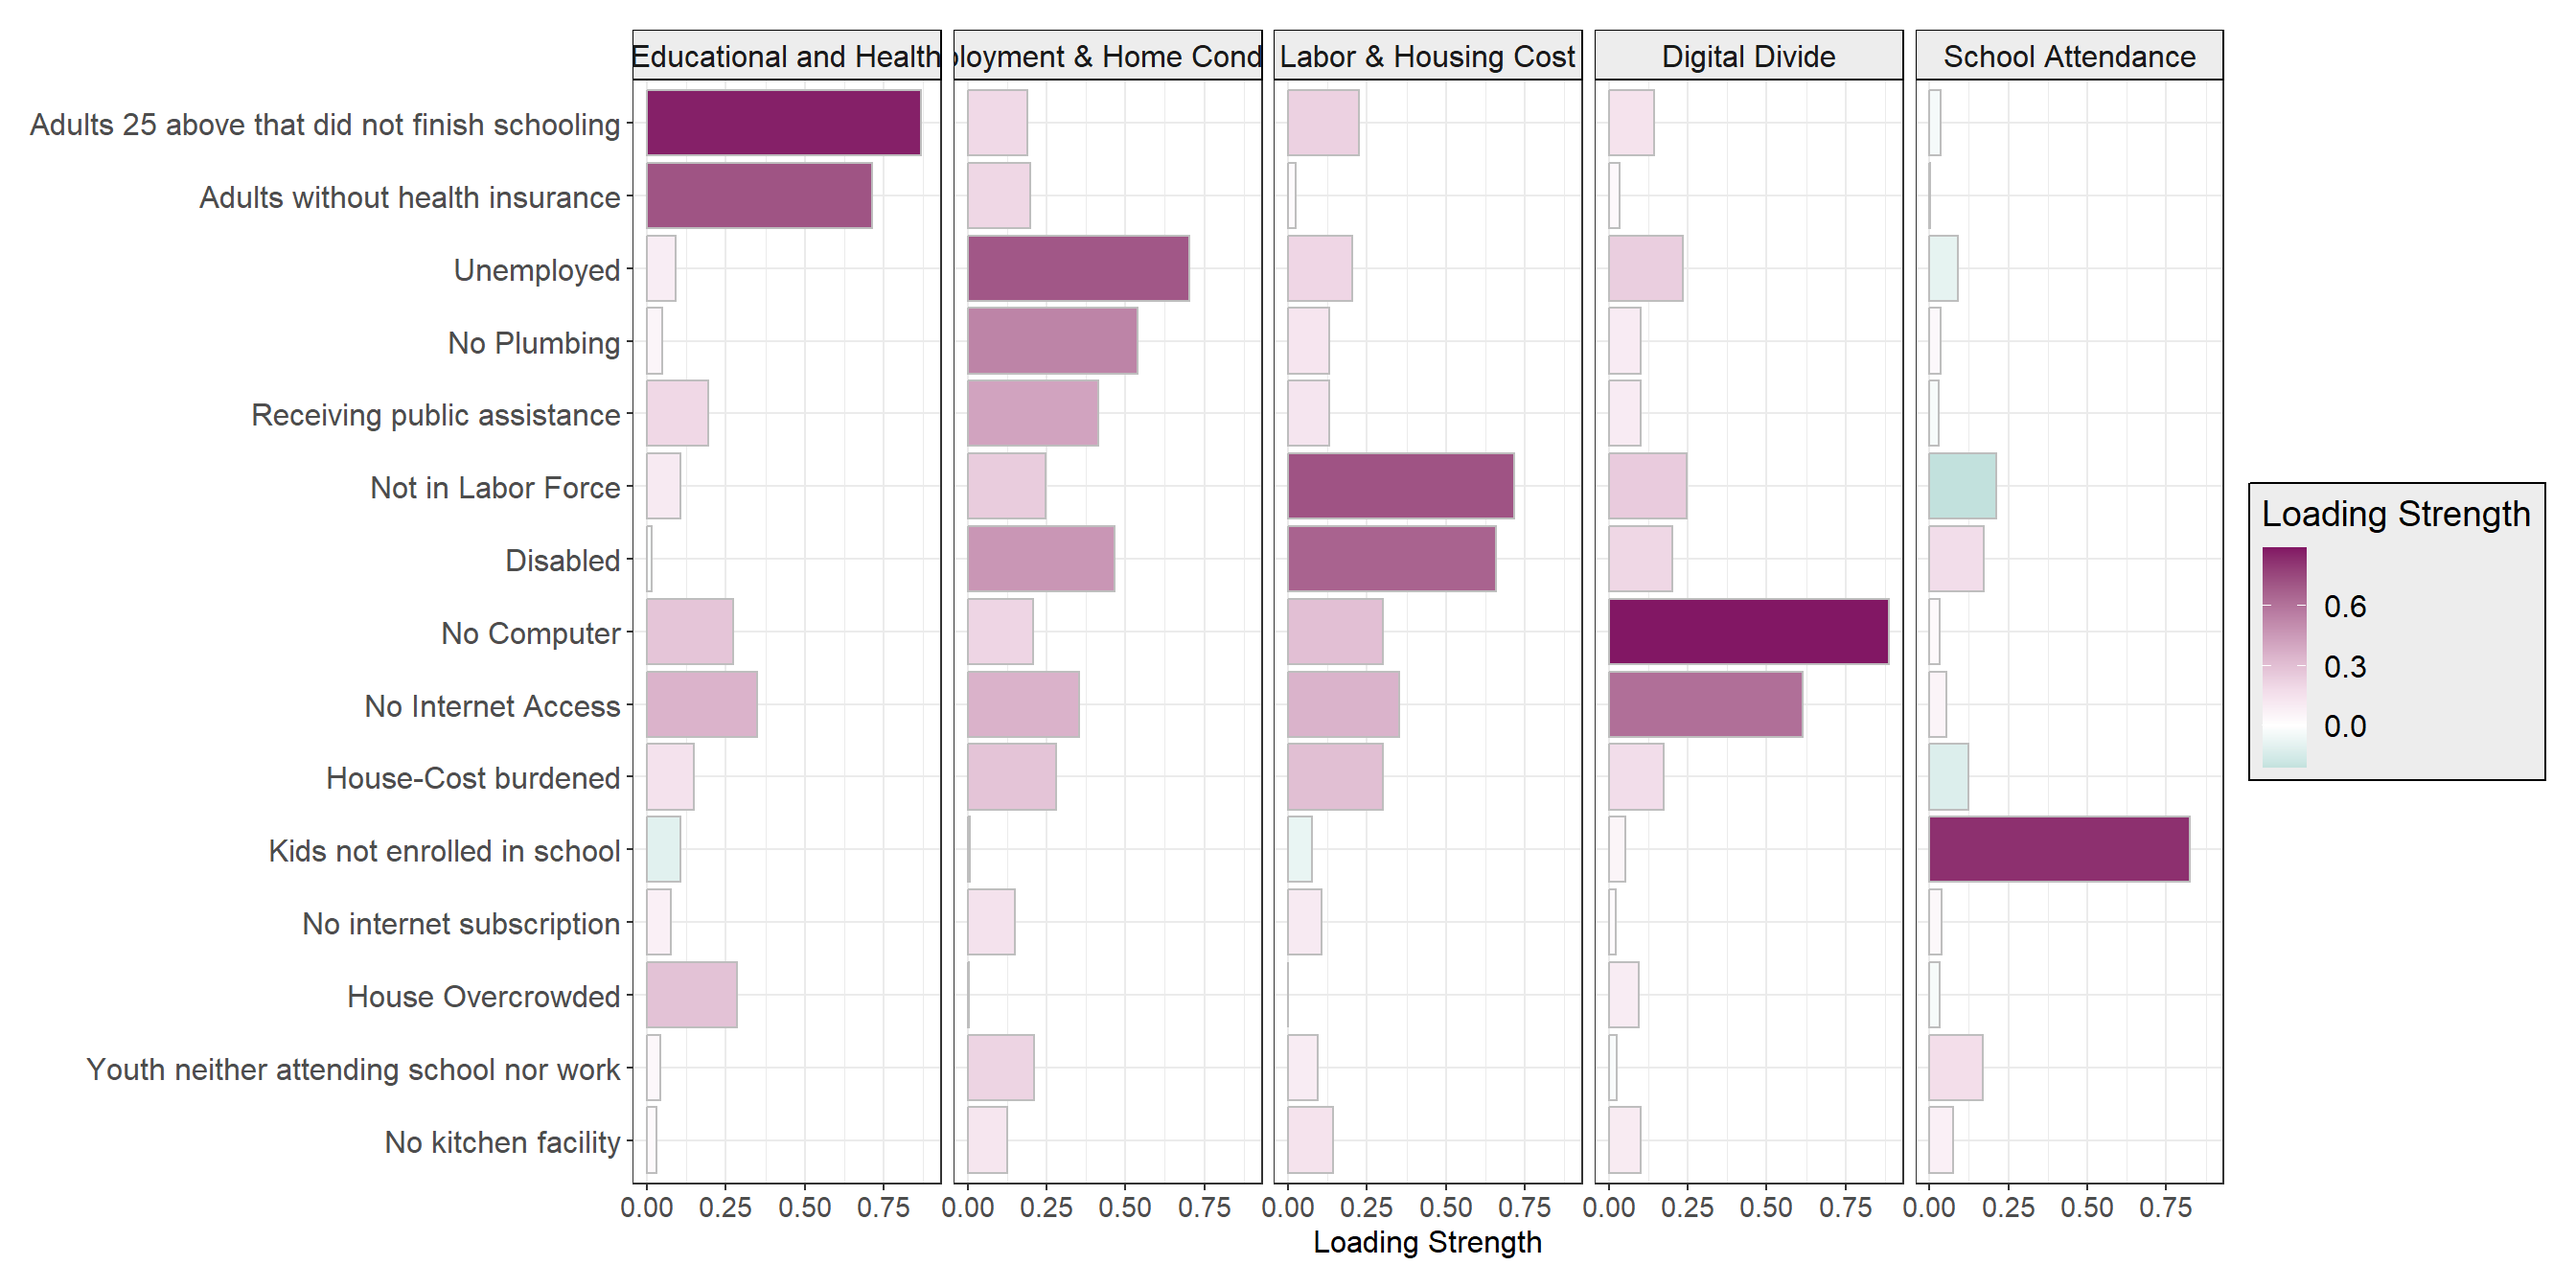
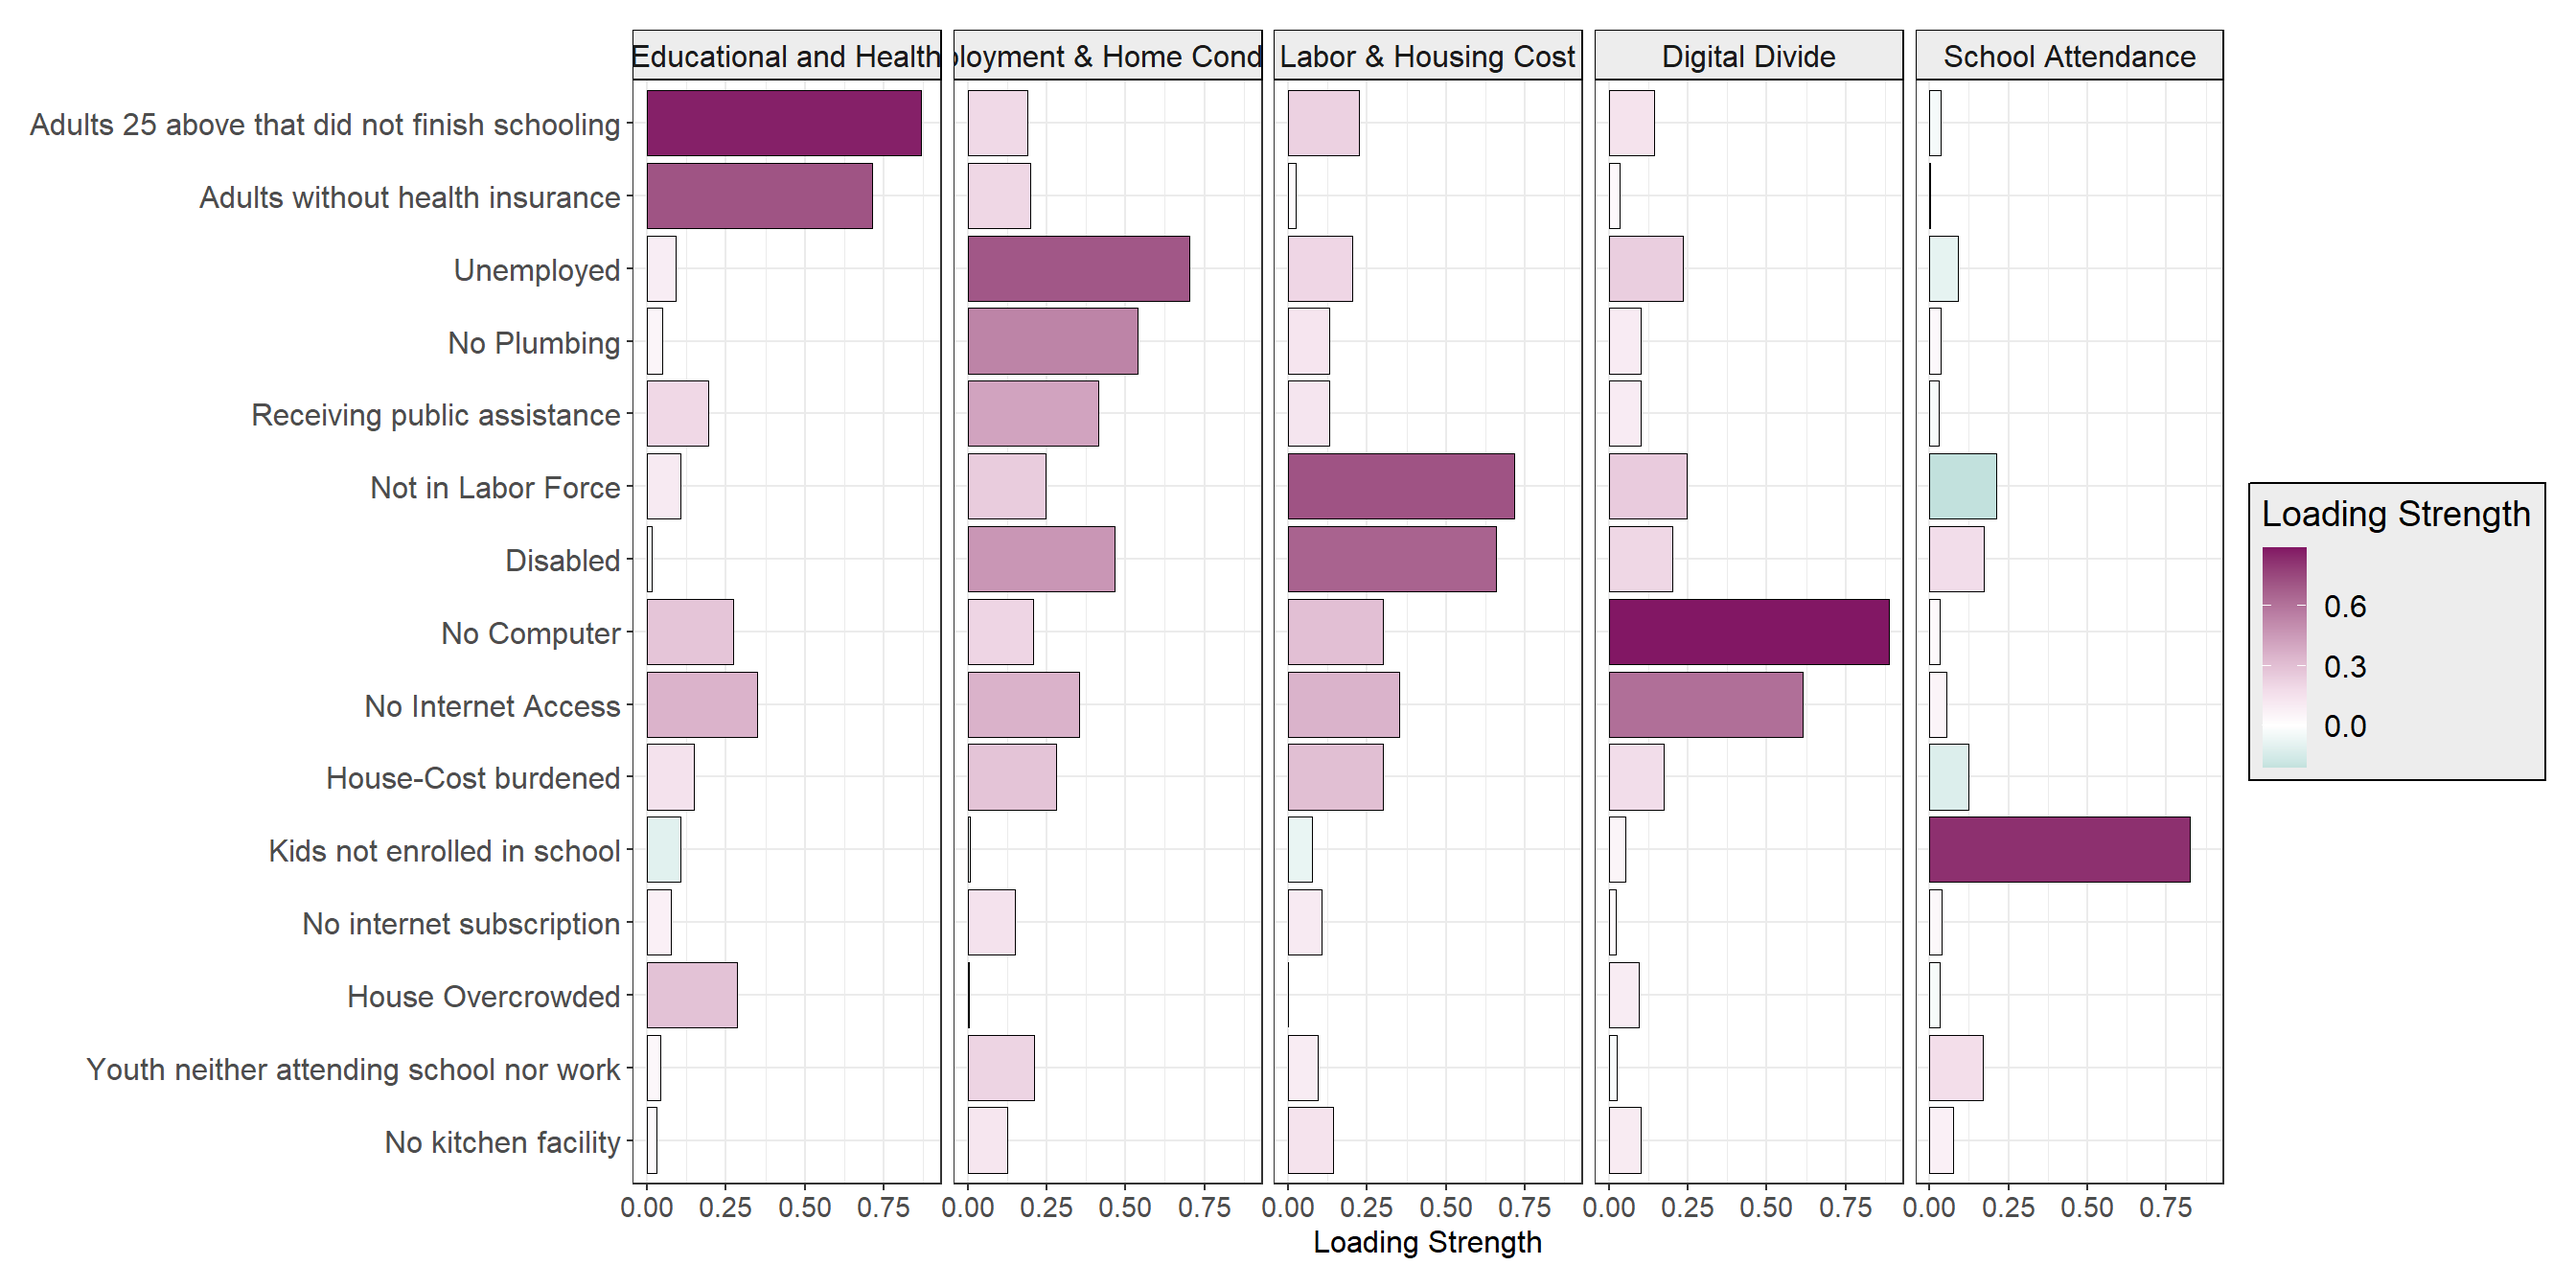
quarto render

diff --git a/docs/multidimensional_poverty.html b/docs/multidimensional_poverty.html
@@ -618,7 +618,7 @@ Attaching package: 'reshape2'</code></pre>
 </div>
 <div class="sourceCode cell-code" id="cb23"><pre class="sourceCode r code-with-copy"><code class="sourceCode r"><span id="cb23-1"><a href="#cb23-1" aria-hidden="true" tabindex="-1"></a><span class="fu">ggplot</span>(loadings_long, <span class="fu">aes</span>(Variable, <span class="fu">abs</span>(Loading), <span class="at">fill=</span>Loading)) <span class="sc">+</span> </span>
 <span id="cb23-2"><a href="#cb23-2" aria-hidden="true" tabindex="-1"></a>  <span class="fu">facet_wrap</span>(<span class="sc">~</span> Factor, <span class="at">nrow=</span><span class="dv">1</span>) <span class="sc">+</span> </span>
-<span id="cb23-3"><a href="#cb23-3" aria-hidden="true" tabindex="-1"></a>  <span class="fu">geom_bar</span>(<span class="at">stat=</span><span class="st">"identity"</span>, <span class="at">color=</span><span class="st">"grey"</span>) <span class="sc">+</span> </span>
+<span id="cb23-3"><a href="#cb23-3" aria-hidden="true" tabindex="-1"></a>  <span class="fu">geom_bar</span>(<span class="at">stat=</span><span class="st">"identity"</span>, <span class="at">color=</span><span class="st">"black"</span>, <span class="at">size=</span><span class="fl">0.3</span>) <span class="sc">+</span>  <span class="co"># change outline to black, increase size</span></span>
 <span id="cb23-4"><a href="#cb23-4" aria-hidden="true" tabindex="-1"></a>  <span class="fu">coord_flip</span>() <span class="sc">+</span> </span>
 <span id="cb23-5"><a href="#cb23-5" aria-hidden="true" tabindex="-1"></a>  <span class="fu">scale_fill_continuous_diverging</span>(<span class="at">palette =</span> <span class="st">"Cyan-Mage"</span>, <span class="at">l1 =</span> <span class="dv">30</span>, <span class="at">l2 =</span> <span class="dv">100</span>, <span class="at">p1 =</span> .<span class="dv">9</span>, <span class="at">p2 =</span> <span class="fl">1.2</span>) <span class="sc">+</span></span>
 <span id="cb23-6"><a href="#cb23-6" aria-hidden="true" tabindex="-1"></a>  <span class="fu">labs</span>(<span class="at">x=</span> <span class="st">"Dimension of Deprivation"</span>, <span class="at">y =</span> <span class="st">"Loading Strength"</span>, <span class="at">fill =</span> <span class="st">"Loading Strength"</span>) <span class="sc">+</span></span>
@@ -634,9 +634,13 @@ Attaching package: 'reshape2'</code></pre>
 <span id="cb23-16"><a href="#cb23-16" aria-hidden="true" tabindex="-1"></a>    <span class="at">legend.text =</span> <span class="fu">element_text</span>(<span class="at">size =</span> <span class="dv">12</span>),  <span class="co"># Adjust legend text</span></span>
 <span id="cb23-17"><a href="#cb23-17" aria-hidden="true" tabindex="-1"></a>    <span class="at">legend.title =</span> <span class="fu">element_text</span>(<span class="at">size =</span> <span class="dv">14</span>),  <span class="co"># Adjust legend title</span></span>
 <span id="cb23-18"><a href="#cb23-18" aria-hidden="true" tabindex="-1"></a>    <span class="at">legend.background =</span> <span class="fu">element_rect</span>(<span class="at">fill =</span> <span class="st">"grey93"</span>, <span class="at">colour =</span> <span class="st">"black"</span>, <span class="at">size =</span> <span class="fl">0.5</span>),</span>
-<span id="cb23-19"><a href="#cb23-19" aria-hidden="true" tabindex="-1"></a>    <span class="at">panel.spacing =</span> <span class="fu">unit</span>(<span class="fl">0.33</span>, <span class="st">"lines"</span>), <span class="co">#spacing between facets</span></span>
-<span id="cb23-20"><a href="#cb23-20" aria-hidden="true" tabindex="-1"></a>    <span class="at">plot.margin =</span> <span class="fu">margin</span>(<span class="dv">12</span>, <span class="dv">12</span>, <span class="dv">12</span>, <span class="dv">12</span>) <span class="co"># reminder: plot margins (top, right, bottom, left)</span></span>
+<span id="cb23-19"><a href="#cb23-19" aria-hidden="true" tabindex="-1"></a>    <span class="at">panel.spacing =</span> <span class="fu">unit</span>(<span class="fl">0.33</span>, <span class="st">"lines"</span>),  <span class="co"># spacing between facets</span></span>
+<span id="cb23-20"><a href="#cb23-20" aria-hidden="true" tabindex="-1"></a>    <span class="at">plot.margin =</span> <span class="fu">margin</span>(<span class="dv">12</span>, <span class="dv">12</span>, <span class="dv">12</span>, <span class="dv">12</span>)  <span class="co"># reminder: plot margins (top, right, bottom, left)</span></span>
 <span id="cb23-21"><a href="#cb23-21" aria-hidden="true" tabindex="-1"></a>  )</span></code><button title="Copy to Clipboard" class="code-copy-button"><i class="bi"></i></button></pre></div>
+<div class="cell-output cell-output-stderr">
+<pre><code>Warning: Using `size` aesthetic for lines was deprecated in ggplot2 3.4.0.
+ℹ Please use `linewidth` instead.</code></pre>
+</div>
 <div class="cell-output cell-output-stderr">
 <pre><code>Warning: The `size` argument of `element_rect()` is deprecated as of ggplot2 3.4.0.
 ℹ Please use the `linewidth` argument instead.</code></pre>

diff --git a/index.tex b/index.tex
@@ -825,7 +825,7 @@ Warning: package 'colorspace' was built under R version 4.2.3
 \begin{Highlighting}[]
 \FunctionTok{ggplot}\NormalTok{(loadings\_long, }\FunctionTok{aes}\NormalTok{(Variable, }\FunctionTok{abs}\NormalTok{(Loading), }\AttributeTok{fill=}\NormalTok{Loading)) }\SpecialCharTok{+} 
   \FunctionTok{facet\_wrap}\NormalTok{(}\SpecialCharTok{\textasciitilde{}}\NormalTok{ Factor, }\AttributeTok{nrow=}\DecValTok{1}\NormalTok{) }\SpecialCharTok{+} 
-  \FunctionTok{geom\_bar}\NormalTok{(}\AttributeTok{stat=}\StringTok{"identity"}\NormalTok{, }\AttributeTok{color=}\StringTok{"grey"}\NormalTok{) }\SpecialCharTok{+} 
+  \FunctionTok{geom\_bar}\NormalTok{(}\AttributeTok{stat=}\StringTok{"identity"}\NormalTok{, }\AttributeTok{color=}\StringTok{"black"}\NormalTok{, }\AttributeTok{size=}\FloatTok{0.3}\NormalTok{) }\SpecialCharTok{+}  \CommentTok{\# change outline to black, increase size}
   \FunctionTok{coord\_flip}\NormalTok{() }\SpecialCharTok{+} 
   \FunctionTok{scale\_fill\_continuous\_diverging}\NormalTok{(}\AttributeTok{palette =} \StringTok{"Cyan{-}Mage"}\NormalTok{, }\AttributeTok{l1 =} \DecValTok{30}\NormalTok{, }\AttributeTok{l2 =} \DecValTok{100}\NormalTok{, }\AttributeTok{p1 =}\NormalTok{ .}\DecValTok{9}\NormalTok{, }\AttributeTok{p2 =} \FloatTok{1.2}\NormalTok{) }\SpecialCharTok{+}
   \FunctionTok{labs}\NormalTok{(}\AttributeTok{x=} \StringTok{"Dimension of Deprivation"}\NormalTok{, }\AttributeTok{y =} \StringTok{"Loading Strength"}\NormalTok{, }\AttributeTok{fill =} \StringTok{"Loading Strength"}\NormalTok{) }\SpecialCharTok{+}
@@ -841,11 +841,16 @@ Warning: package 'colorspace' was built under R version 4.2.3
     \AttributeTok{legend.text =} \FunctionTok{element\_text}\NormalTok{(}\AttributeTok{size =} \DecValTok{12}\NormalTok{),  }\CommentTok{\# Adjust legend text}
     \AttributeTok{legend.title =} \FunctionTok{element\_text}\NormalTok{(}\AttributeTok{size =} \DecValTok{14}\NormalTok{),  }\CommentTok{\# Adjust legend title}
     \AttributeTok{legend.background =} \FunctionTok{element\_rect}\NormalTok{(}\AttributeTok{fill =} \StringTok{"grey93"}\NormalTok{, }\AttributeTok{colour =} \StringTok{"black"}\NormalTok{, }\AttributeTok{size =} \FloatTok{0.5}\NormalTok{),}
-    \AttributeTok{panel.spacing =} \FunctionTok{unit}\NormalTok{(}\FloatTok{0.33}\NormalTok{, }\StringTok{"lines"}\NormalTok{), }\CommentTok{\#spacing between facets}
-    \AttributeTok{plot.margin =} \FunctionTok{margin}\NormalTok{(}\DecValTok{12}\NormalTok{, }\DecValTok{12}\NormalTok{, }\DecValTok{12}\NormalTok{, }\DecValTok{12}\NormalTok{) }\CommentTok{\# reminder: plot margins (top, right, bottom, left)}
+    \AttributeTok{panel.spacing =} \FunctionTok{unit}\NormalTok{(}\FloatTok{0.33}\NormalTok{, }\StringTok{"lines"}\NormalTok{),  }\CommentTok{\# spacing between facets}
+    \AttributeTok{plot.margin =} \FunctionTok{margin}\NormalTok{(}\DecValTok{12}\NormalTok{, }\DecValTok{12}\NormalTok{, }\DecValTok{12}\NormalTok{, }\DecValTok{12}\NormalTok{)  }\CommentTok{\# reminder: plot margins (top, right, bottom, left)}
 \NormalTok{  )}
 \end{Highlighting}
 \end{Shaded}
+
+\begin{verbatim}
+Warning: Using `size` aesthetic for lines was deprecated in ggplot2 3.4.0.
+i Please use `linewidth` instead.
+\end{verbatim}
 
 \begin{verbatim}
 Warning: The `size` argument of `element_rect()` is deprecated as of ggplot2 3.4.0.
